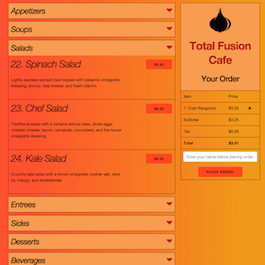
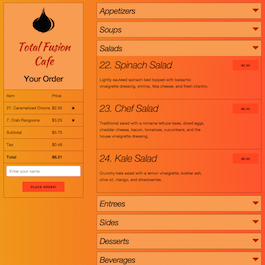
Update description of Total Fusion and update images diff --git a/img/works/total-fusion-screencapture.png b/img/works/total-fusion-screencapture.png index 090f2cb..367aa4e 100644 Binary files a/img/works/total-fusion-screencapture.png and b/img/works/total-fusion-screencapture.png differ diff --git
<div class="item">
                   <a class="works-lightbox" href="img/works/total-fusion-screencapture.png" title="Interactive restaurant menu built with Backbone.js. Includes real-time ordering system and admin panel to mark orders complete." data-lightbox-gallery="gallery1"><img src="img/works/total-fusion-thumbnail.png" class="img-responsive " alt="Total Fusion"></a>
-                  <p class="works-text">Restaurant menu built with Backbone.js, Skeleton, and Parse as a backend server.  I used Backbone views to dynamically update the customer orders.</p>
+                  <p class="works-text">Restaurant menu built with Backbone.js, Skeleton responsive grid, and Parse backend.  I used Backbone views to dynamically update the customer orders.</p>
                   <a href="http://jjhampton.github.io/7.4-total-fusion/" target="_blank"><button>Live Demo</button></a>
                   <a href="https://github.com/jjhampton/7.4-total-fusion" target="_blank"><button>View Code</button></a>
                 </div>

diff --git a/index.html b/index.html
@@ -289,7 +289,7 @@
 
                 <div class="item">
                   <a class="works-lightbox" href="img/works/total-fusion-screencapture.png" title="Interactive restaurant menu built with Backbone.js. Includes real-time ordering system and admin panel to mark orders complete." data-lightbox-gallery="gallery1"><img src="img/works/total-fusion-thumbnail.png" class="img-responsive " alt="Total Fusion"></a>
-                  <p class="works-text">Restaurant menu built with Backbone.js, Skeleton, and Parse as a backend server.  I used Backbone views to dynamically update the customer orders.</p>
+                  <p class="works-text">Restaurant menu built with Backbone.js, Skeleton responsive grid, and Parse backend.  I used Backbone views to dynamically update the customer orders.</p>
                   <a href="http://jjhampton.github.io/7.4-total-fusion/" target="_blank"><button>Live Demo</button></a>
                   <a href="https://github.com/jjhampton/7.4-total-fusion" target="_blank"><button>View Code</button></a>
                 </div>
